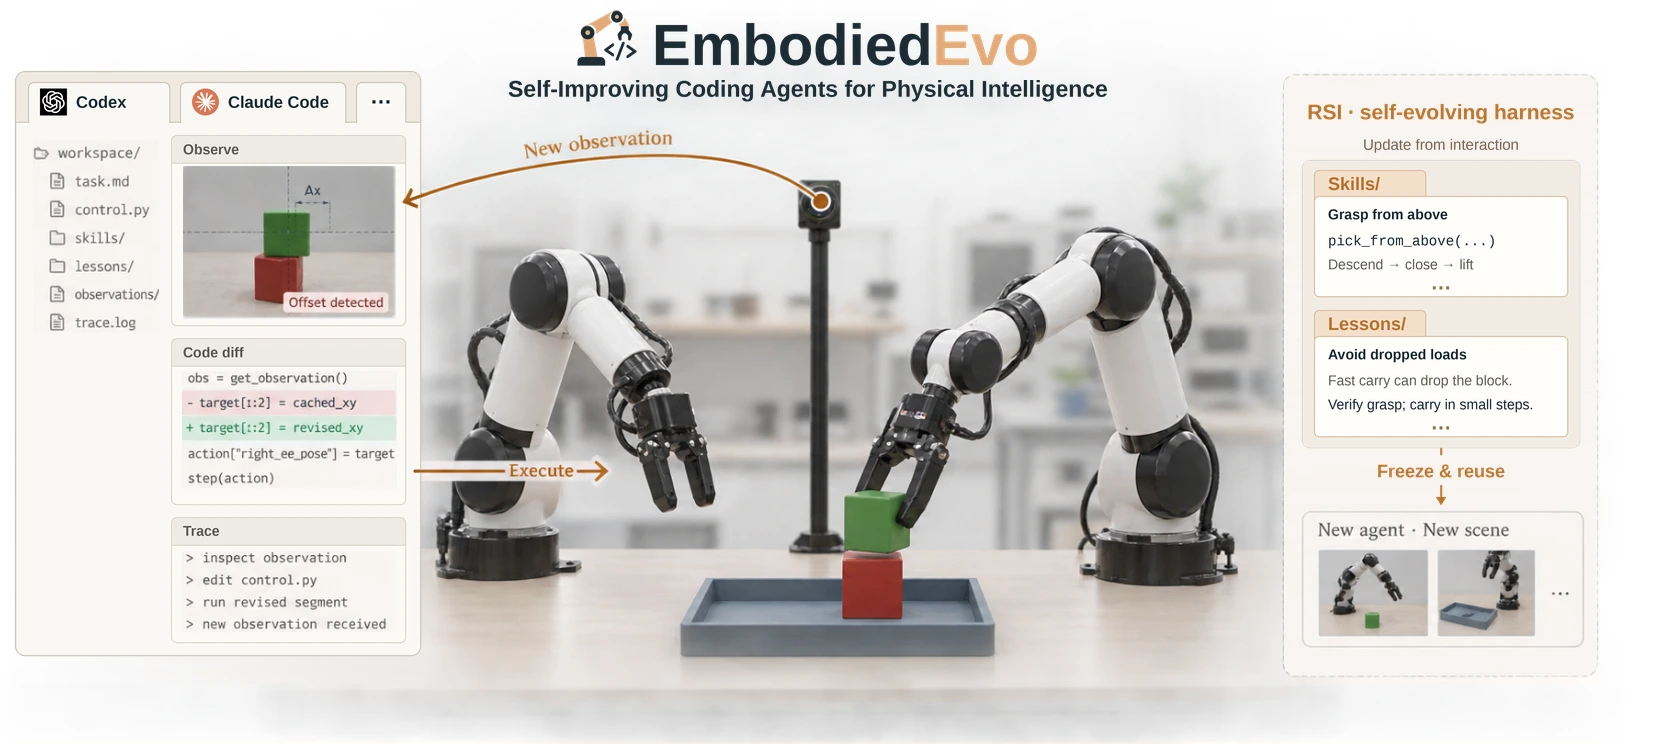
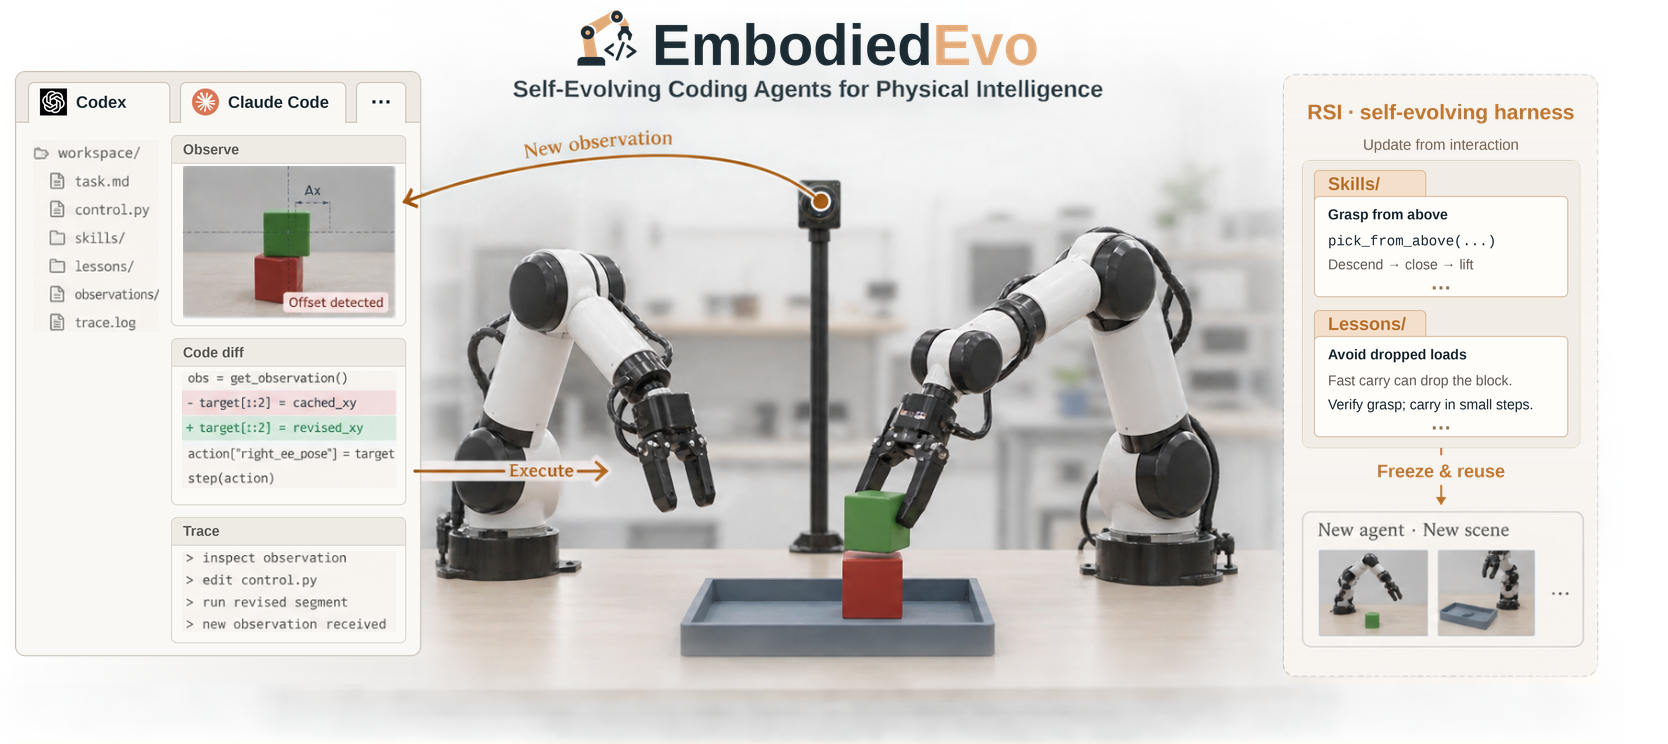
feat: refresh EmbodiedEvo overview and Self-Evolving title

Changed region(s): [[0.3118, 0.0927, 0.6547, 0.1546], [0.8417, 0.6183, 0.9041, 0.6492]]

diff --git a/scripts/verify-embodiedrsi.py b/scripts/verify-embodiedrsi.py
@@ -40,7 +40,7 @@ with sync_playwright() as p:
     page.on('pageerror', lambda e: errors.append(str(e)))
     page.on('response', lambda r: bad_assets.append(f'{r.status} {r.url}') if r.status >= 400 and r.url.startswith(base) else None)
     page.goto(base + '/embodiedevo/', wait_until='networkidle')
-    check('Paper title', page.title() == 'EmbodiedEvo: Self-improving Coding Agents for Physical Intelligence')
+    check('Paper title', page.title() == 'EmbodiedEvo: Self-Evolving Coding Agent For Physical Intelligence')
     body = page.locator('body').inner_text()
     check('English-only project', page.locator('html').get_attribute('lang') == 'en' and not re.search(r'[\u3400-\u9fff]', body))
     check('RoboDojo only', not re.search(r'RoboCasa|RoboTwin', body))

diff --git a/docs/embodiedrsi/CONTENT.md b/docs/embodiedrsi/CONTENT.md
@@ -2,7 +2,7 @@
 
 ## Manuscript scope
 
-Synchronized against the local **EAHarnessPaper** working manuscript on October 13, 2026, including its current `Tables/unfinished_experience.tex`. The title is *EmbodiedEvo: Self-improving Coding Agents for Physical Intelligence*. All website reporting, examples, and videos concern **RoboDojo simulation**. The previous RoboTwin/RoboCasa demonstration data and media have been removed.
+Synchronized against the local **EAHarnessPaper** working manuscript on October 13, 2026, including its current `Tables/unfinished_experience.tex`. The title is *EmbodiedEvo: Self-Evolving Coding Agent For Physical Intelligence*. All website reporting, examples, and videos concern **RoboDojo simulation**. The previous RoboTwin/RoboCasa demonstration data and media have been removed.
 
 Project routes: `/embodiedevo/`, `/embodied-rsi/`; `/` is the lab homepage. Detailed method and results: `/embodiedevo/details/`, with `/embodied-rsi/details/` as an alias. Explorer: `/embodiedevo/trajectories/`, with `/embodied-rsi/trajectories/` as an alias. User-facing copy, controls, and explanatory notes are English. The project retains the existing omission of the author block and a forthcoming paper link. GitHub links use the user-supplied `https://github.com/Einsia/EmbodiedEvo` address.
 
@@ -87,7 +87,7 @@ The following optimized copies in `public/embodied-rsi/figures/` come directly f
 - `experiment-experience-trace.webp` ← page 1 of `Figures/experiment-experience-trace.pdf`.
 - `experiment-capability-evolution.webp` ← page 1 of `Figures/experiment-capability-evolution.pdf` (1170 × 749; refreshed October 13).
 
-PNG sources use RGB WebP quality 92. The static framework was refreshed from the current paper on October 13, 2026 to match the robot-arm logo in the homepage animation. PDFs are rendered at 2.5× and encoded at quality 92. Sources remain unchanged. The selected capability figure replaces the older qualitative montage on the details page. The manuscript trace figures concern paired, pure-description cases; the live video examples below are from the separate wiki Full Evaluation.
+The overview was refreshed on October 14, 2026 from the supplied paper PNG and uses a pixel-identical RGB lossless WebP at 1668 × 744. Other PNG sources use RGB WebP quality 92. The static framework was refreshed from the current paper on October 13, 2026 to match the robot-arm logo in the homepage animation. PDFs are rendered at 2.5× and encoded at quality 92. Sources remain unchanged. The selected capability figure replaces the older qualitative montage on the details page. The manuscript trace figures concern paired, pure-description cases; the live video examples below are from the separate wiki Full Evaluation.
 
 ## Complete-episode gallery
 

diff --git a/README.md b/README.md
@@ -128,7 +128,7 @@ Markdown body goes here.
 
 ## EmbodiedEvo project
 
-The Research listing includes **EmbodiedEvo: Self-improving Coding Agents for Physical Intelligence**.
+The Research listing includes **EmbodiedEvo: Self-Evolving Coding Agent For Physical Intelligence**.
 Its English project pages report RoboDojo simulation results from the October 13, 2026 manuscript:
 
 - `/embodiedevo/`: overview, two-stage method animation, leaderboard, three key findings, and video previews.

diff --git a/src/content/blog/embodiedevo.md b/src/content/blog/embodiedevo.md
@@ -1,6 +1,6 @@
 ---
 draft: false
-title: "EmbodiedEvo: Self-improving Coding Agents for Physical Intelligence"
+title: "EmbodiedEvo: Self-Evolving Coding Agent For Physical Intelligence"
 snippet: "Coding agents learn from physical interaction, retain reusable Skills and Lessons, and pass that experience to fresh agents."
 url: "/embodiedevo/"
 publishDate: "2026-10-12"
